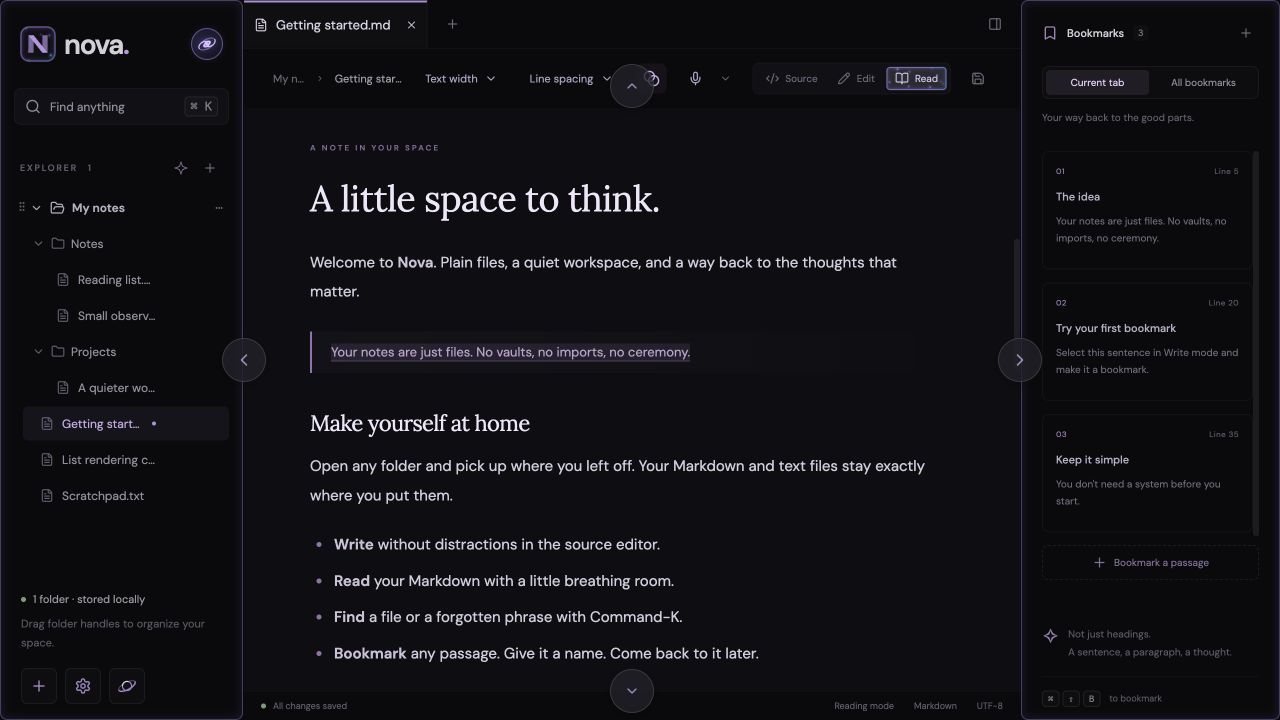
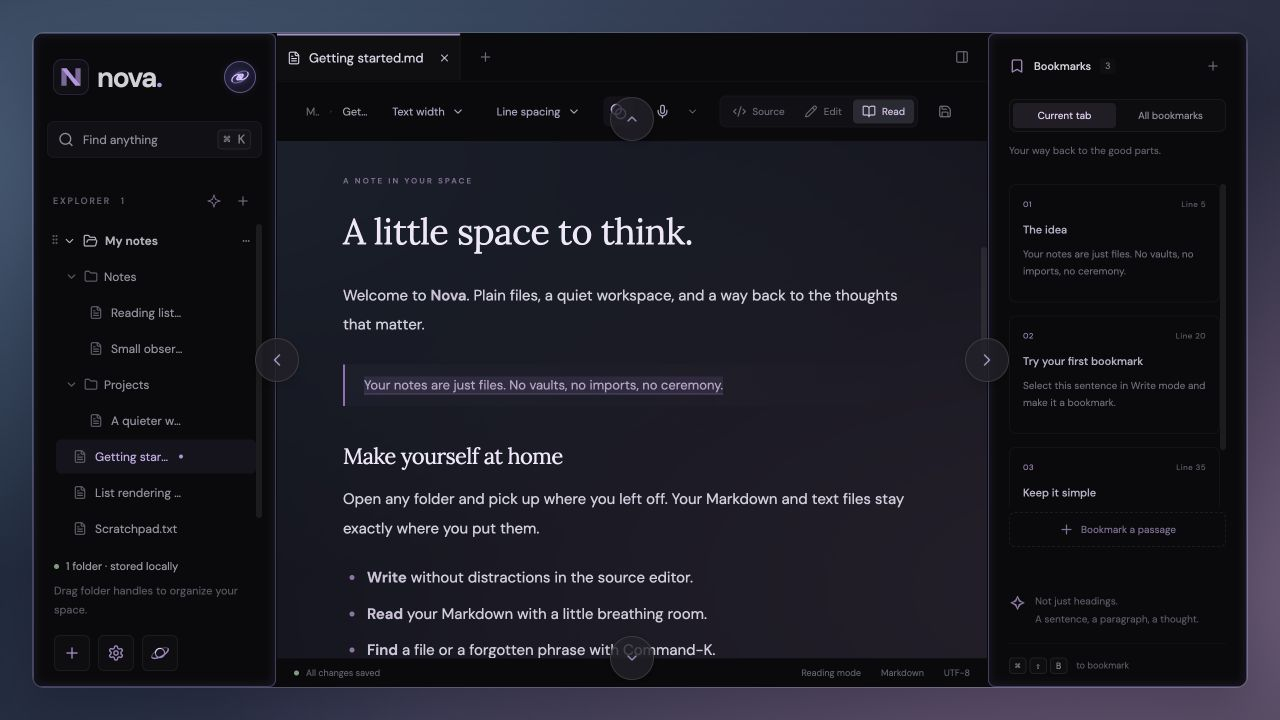
Show real editor translucency over a subtle backdrop

diff --git a/README.md b/README.md
@@ -6,7 +6,7 @@ Nova is a notes app for Mac and Windows that gives your words room to breathe. W
 
 **[Download Nova](#download-nova)** · **[Take a look](#make-yourself-at-home)** · **[Get started](#your-first-few-minutes)**
 
-![Nova showing a note alongside folders and named bookmarks, with Galaxy mode enabled](docs/screenshots/galaxy-mode.jpg)
+![Nova's translucent editor over a soft blue-purple background, with folders and named bookmarks alongside the note](docs/screenshots/galaxy-mode.jpg)
 
 *Your files on the left. Your thoughts in the middle. Your favorite passages on the right.*
 
@@ -37,6 +37,8 @@ Not sure which Mac you have? Open **Apple menu → About This Mac** and look for
 
 Turn **Galaxy mode** on for translucent surfaces and glowing edges, or off for a simple, solid background. Your notes and bookmarks stay right where they are.
 
+Let a little of your background show through the page with **Translucent background**, the overlapping-circles button above your note. You can turn it off while keeping Galaxy's glow.
+
 | Galaxy on | Galaxy off |
 | :---: | :---: |
 | ![Galaxy mode with violet accents and glowing panel edges](docs/screenshots/galaxy-mode.jpg) | ![The same note with Galaxy off and a solid dark background](docs/screenshots/standard-mode.jpg) |
@@ -57,7 +59,7 @@ Enter **focus mode** to hide the folders, bookmarks, and toolbars. Choose your p
 
 ![Focus mode with a centered note and the surrounding panels hidden](docs/screenshots/focus-mode.jpg)
 
-*These screenshots show sample notes in the browser preview. Open your own folders and use voice typing in the desktop app.*
+*These screenshots show sample notes in the browser preview. The Galaxy comparison uses a soft blue-purple backdrop to show the editor's translucency. Open your own folders and use voice typing in the desktop app.*
 
 ## Your first few minutes
 
